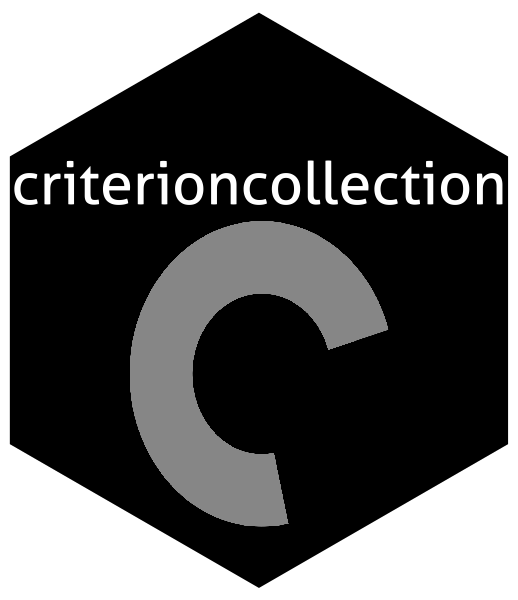
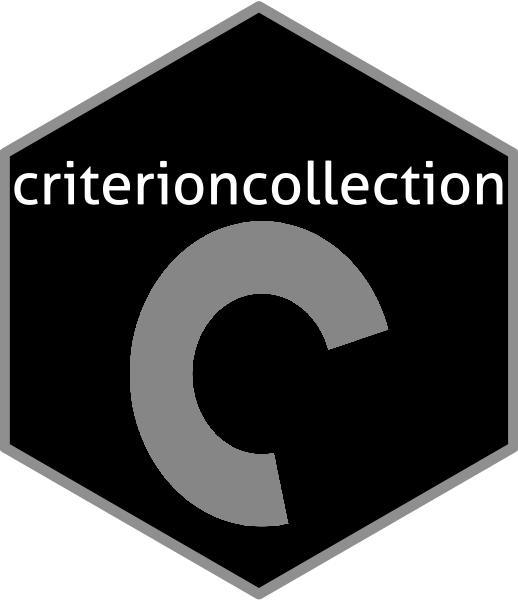
fixing dependencies, sticker

Changed region(s): [[0.0, 0.0, 1.0, 1.0]]

diff --git a/README.md b/README.md
@@ -1,7 +1,7 @@
 
 <!-- README.md is generated from README.Rmd. Please edit that file -->
 
-# criterioncollection
+# criterioncollection <img src = "man/figures/criterion_hex.png" align = "right" height = "139" />
 
 <!-- badges: start -->
 
@@ -66,19 +66,46 @@ input.
 ``` r
 find_by_director("John Woo")
 #> [1] "Find_by_director dataframe generated"
-#>   spine year   country       title director   imdb_id
-#> 8     8 1989 Hong Kong  The Killer John Woo tt0097202
-#> 9     9 1992 Hong Kong Hard Boiled John Woo tt0104684
+#> # A tibble: 2 × 6
+#>   spine year  country   title       director imdb_id  
+#>   <dbl> <chr> <chr>     <chr>       <chr>    <chr>    
+#> 1     8 1989  Hong Kong The Killer  John Woo tt0097202
+#> 2     9 1992  Hong Kong Hard Boiled John Woo tt0104684
 ```
 
 ``` r
 find_by_title("Grand Illusion")
+#> Warning: `as_data_frame()` was deprecated in tibble 2.0.0.
+#> Please use `as_tibble()` instead.
+#> The signature and semantics have changed, see `?as_tibble`.
+#> This warning is displayed once every 8 hours.
+#> Call `lifecycle::last_lifecycle_warnings()` to see where this warning was generated.
 #> [1] "Find_by_title dataframe generated"
+#> # A tibble: 2 × 30
+#>   Title        Year  Rated Released   Runtime Genre Director Writer Actors Plot 
+#>   <chr>        <chr> <chr> <date>     <chr>   <chr> <chr>    <chr>  <chr>  <chr>
+#> 1 The Grand I… 1937  Not … 1938-09-12 113 min Dram… Jean Re… Charl… Jean … Duri…
+#> 2 The Grand I… 1937  Not … 1938-09-12 113 min Dram… Jean Re… Charl… Jean … Duri…
+#> # … with 20 more variables: Language <chr>, Country <chr>, Awards <chr>,
+#> #   Poster <chr>, Ratings <list>, Metascore <chr>, imdbRating <dbl>,
+#> #   imdbVotes <dbl>, imdb_id <chr>, Type <chr>, DVD <date>, BoxOffice <chr>,
+#> #   Production <chr>, Website <chr>, Response <chr>, spine <dbl>, year <chr>,
+#> #   country <chr>, title <chr>, director <chr>
 ```
 
 ``` r
 find_by_spine("1")
 #> [1] "Find_by_spine dataframe generated"
+#> # A tibble: 2 × 30
+#>   Title        Year  Rated Released   Runtime Genre Director Writer Actors Plot 
+#>   <chr>        <chr> <chr> <date>     <chr>   <chr> <chr>    <chr>  <chr>  <chr>
+#> 1 The Grand I… 1937  Not … 1938-09-12 113 min Dram… Jean Re… Charl… Jean … Duri…
+#> 2 The Grand I… 1937  Not … 1938-09-12 113 min Dram… Jean Re… Charl… Jean … Duri…
+#> # … with 20 more variables: Language <chr>, Country <chr>, Awards <chr>,
+#> #   Poster <chr>, Ratings <list>, Metascore <chr>, imdbRating <dbl>,
+#> #   imdbVotes <dbl>, imdb_id <chr>, Type <chr>, DVD <date>, BoxOffice <chr>,
+#> #   Production <chr>, Website <chr>, Response <chr>, spine <dbl>, year <chr>,
+#> #   country <chr>, title <chr>, director <chr>
 ```
 
 The package also contains a dataset with only the boxsets and the movies
@@ -87,10 +114,12 @@ a similar function, find\_boxset.
 
 ``` r
 find_boxset("The Koker Trilogy")
-#>          boxset_title                  movie_title year
-#> 165 The Koker Trilogy Where Is the Friend’s House? 1987
-#> 166 The Koker Trilogy             And Life Goes On 1987
-#> 167 The Koker Trilogy      Through the Olive Trees 1987
+#> # A tibble: 3 × 3
+#>   boxset_title      movie_title                   year
+#>   <chr>             <chr>                        <dbl>
+#> 1 The Koker Trilogy Where Is the Friend’s House?  1987
+#> 2 The Koker Trilogy And Life Goes On              1987
+#> 3 The Koker Trilogy Through the Olive Trees       1987
 #> [1] "Find_boxset dataframe generated"
 ```
 
